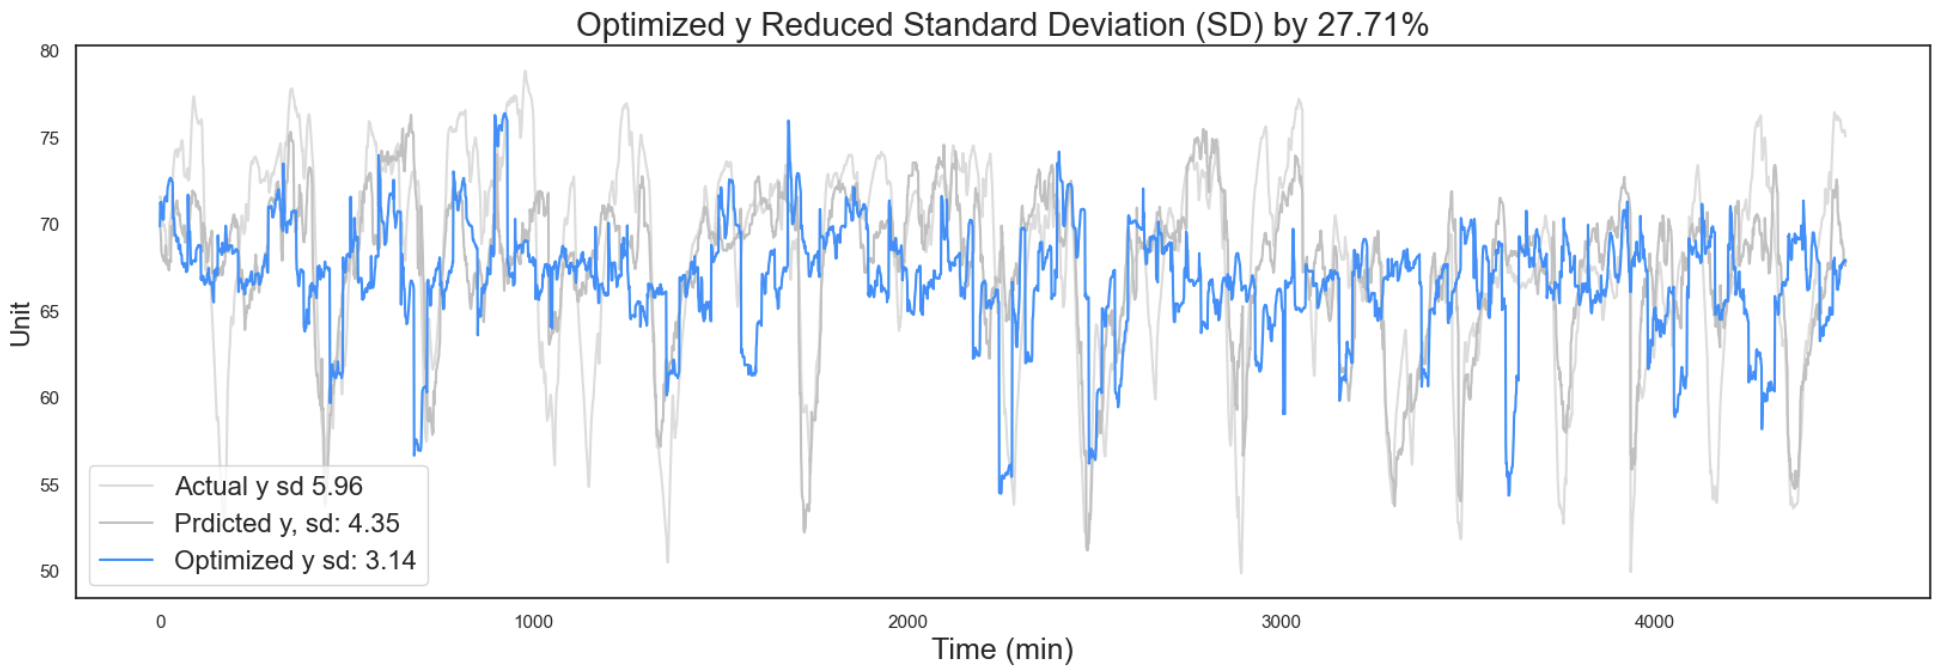
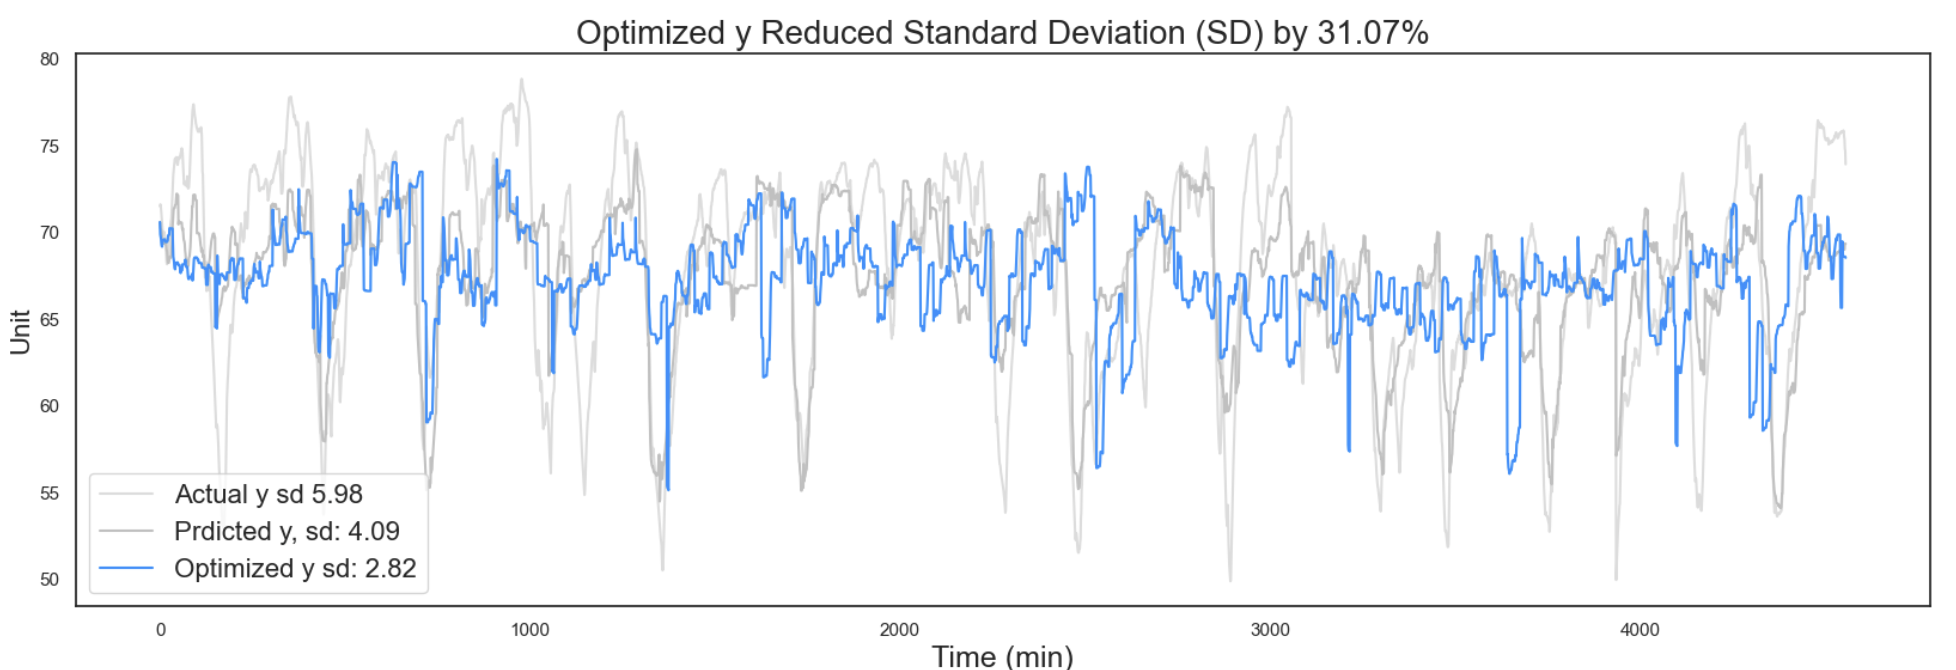
Vectorized optimization setup to reduce cycle time

diff --git a/README.md b/README.md
@@ -43,7 +43,7 @@ The math representation of the problem is shown below.
 
 ![Math representation](./resources/math.png)
 
-The graph below shows the optimized decisions' results: we managed to reduce the standard deviation by 28% compared to previous actions.
+The graph below shows the optimized decisions' results: we managed to reduce the standard deviation by 31% compared to previous actions.
 
 ![All Together](./resources/All_together.png)
 
